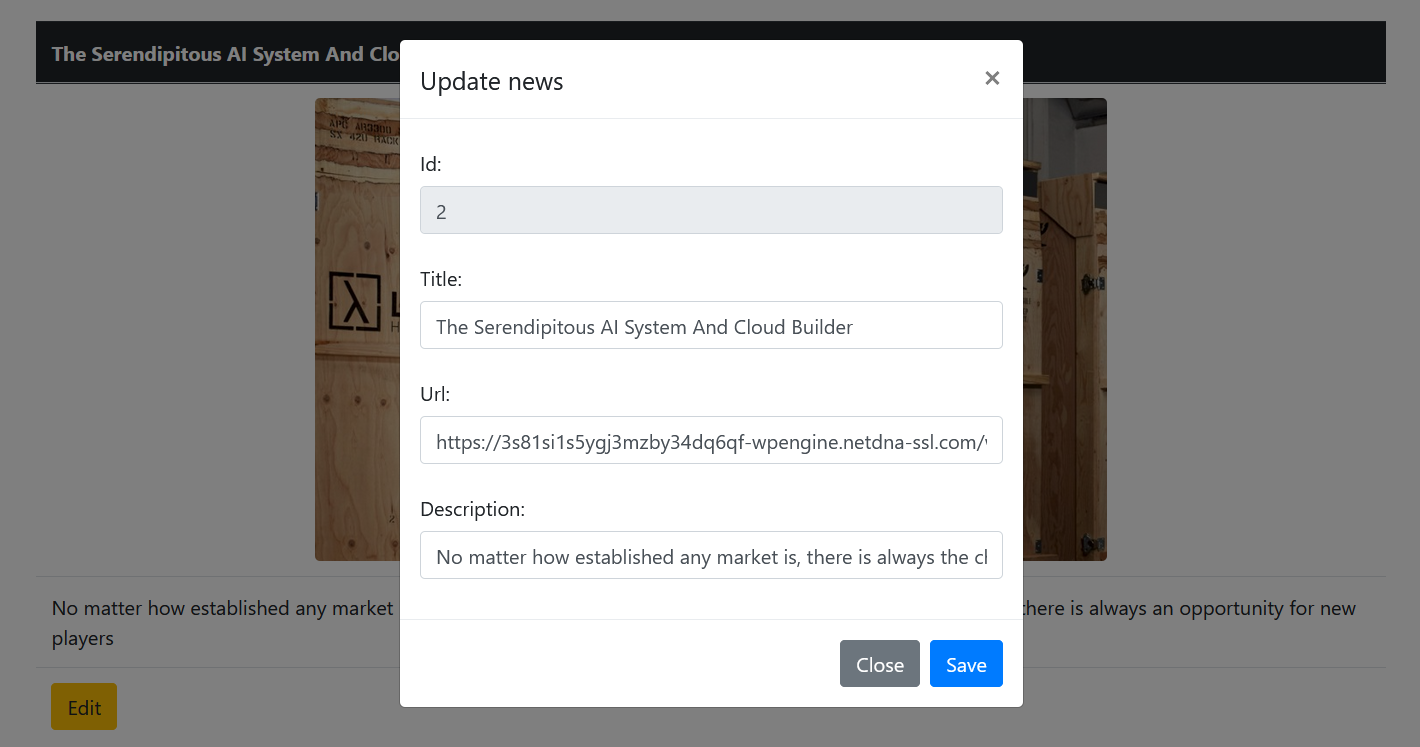
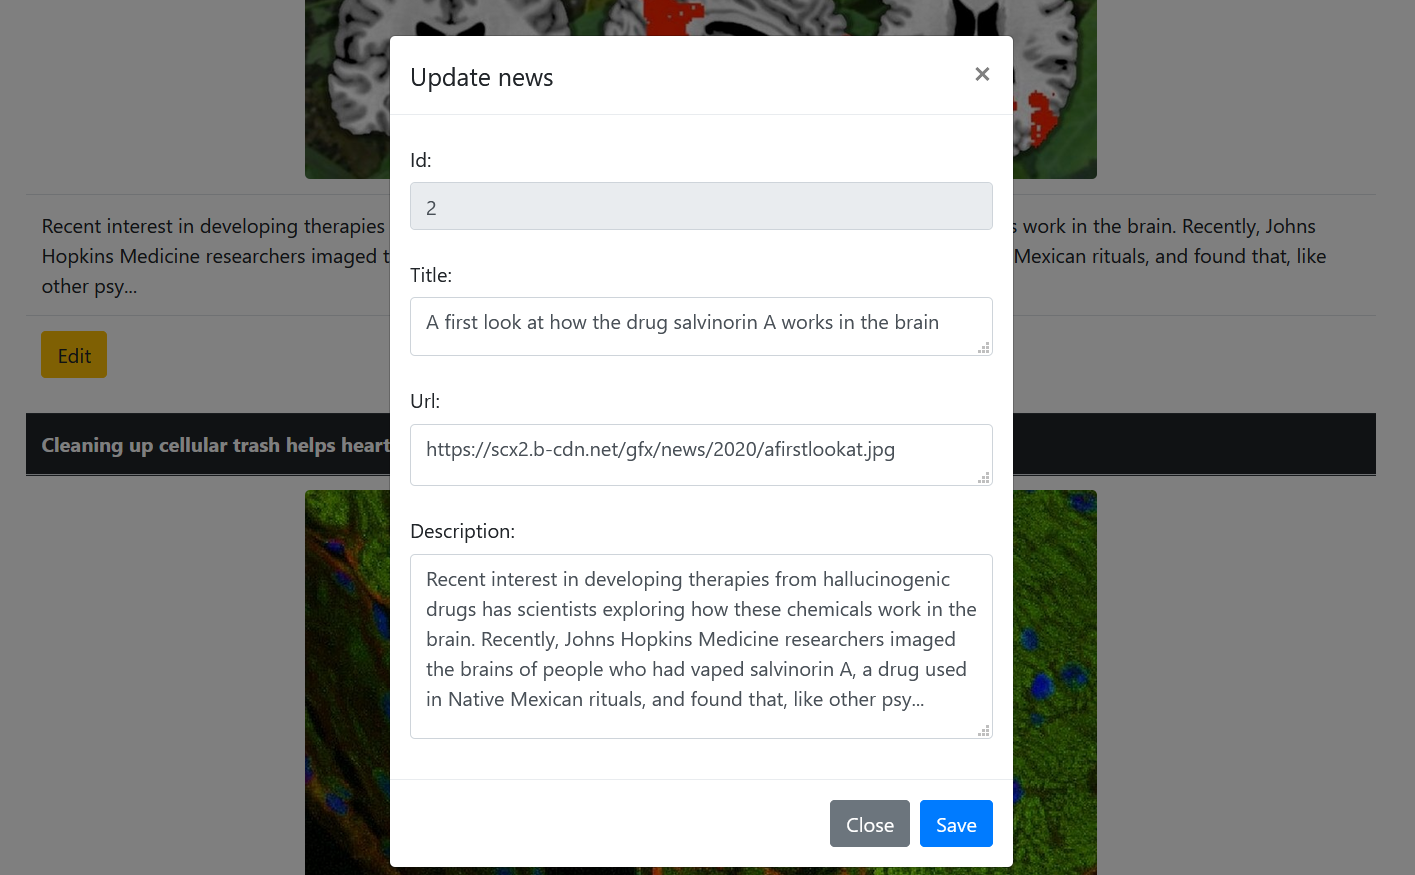
frontend textareas

diff --git a/src/main/resources/templates/news.html b/src/main/resources/templates/news.html
@@ -68,21 +68,21 @@
                     </div>
                     <div class="form-group">
                         <label for="titleEdit" class="col-form-label">Title:</label>
-                        <input type="text" class="form-control" id="titleEdit" name="title">
+                        <textarea type="text" class="form-control" id="titleEdit" name="title"></textarea>
                         <p id="titleEditMessage" style="color: red;">
                             **Title is missing
                         </p>
                     </div>
                     <div class="form-group">
                         <label for="imageUrlEdit" class="col-form-label">Url:</label>
-                        <input type="text" class="form-control" id="imageUrlEdit" name="imageUrl">
+                        <textarea type="text" class="form-control" id="imageUrlEdit" name="imageUrl"></textarea>
                         <p id="imageUrlEditMessage" style="color: red;">
                             **Image url is missing
                         </p>
                     </div>
                     <div class="form-group">
                         <label for="descriptionEdit" class="col-form-label">Description:</label>
-                        <input type="text" class="form-control" id="descriptionEdit" name="description">
+                        <textarea type="text" class="form-control" id="descriptionEdit" name="description"></textarea>
                         <p id="descriptionEditMessage" style="color: red;">
                             **Description is missing
                         </p>
